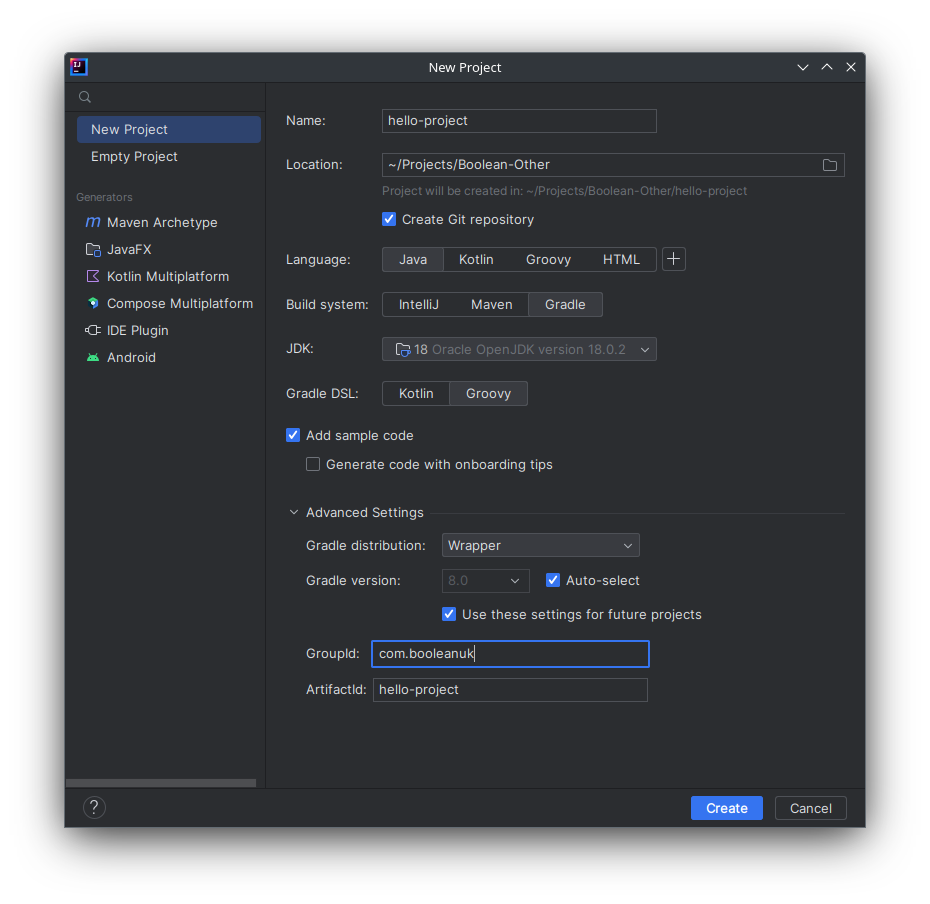
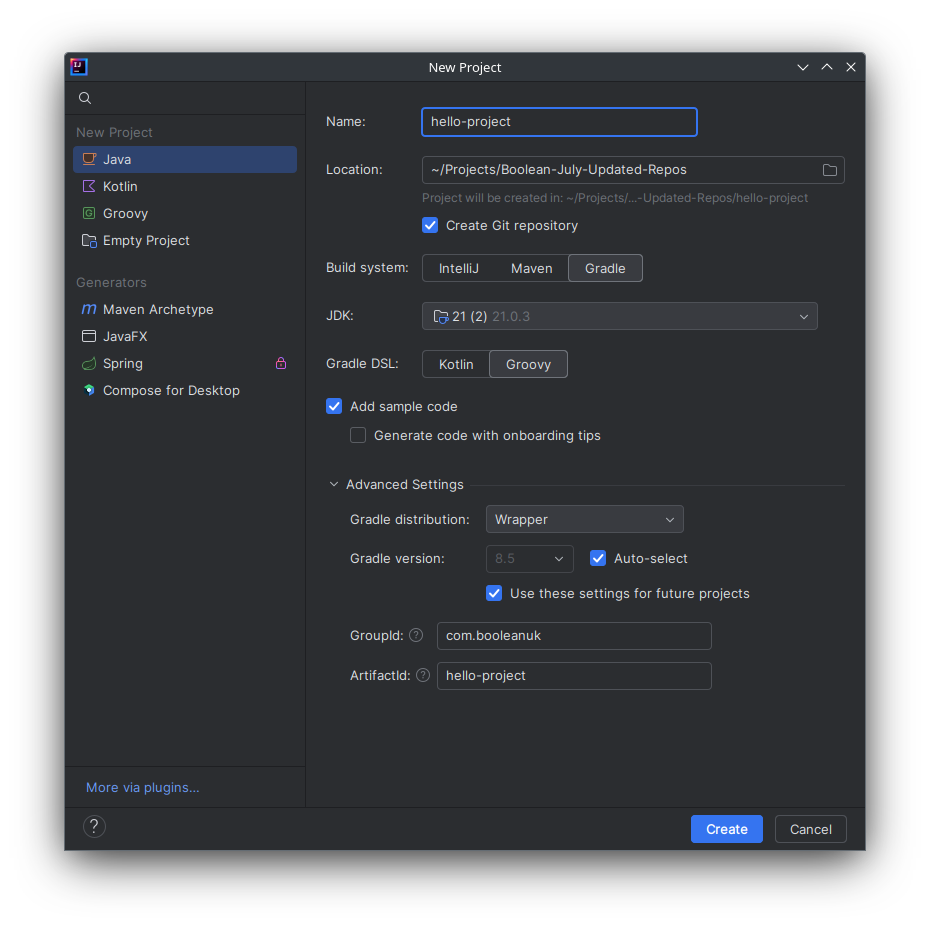
Updated the content to use Java 21 from Microsoft, and removed references to the beginner lesson content.

diff --git a/README.md b/README.md
@@ -12,21 +12,21 @@
 
 ## Installation
 
-### Install Java 17 SDK
+### Install Java 21 SDK
 
-Go to [here](https://learn.microsoft.com/en-us/java/openjdk/download#openjdk-17) and download the appropriate version of the Java SDK for your machine (we are specifically targetting versiion 17 of the JDK). If you use other versions of the JDK you may encounter problems so it is recommended that you just use version 17 for your platform.
+Go to [here](https://learn.microsoft.com/en-us/java/openjdk/download#openjdk-21) and download the appropriate version of the Java SDK for your machine (we are specifically targeting version 21 of the JDK). If you use other versions of the JDK you may encounter problems so it is recommended that you just use version 21 for your platform.
 
 There are Platform specific installation instructions [here](https://learn.microsoft.com/en-us/java/openjdk/install).
 
 To test which version your system can see, start a new Git Bash/Terminal and run `java --version` the output should look something like this:
 
 ```bash
-openjdk 17.0.9 2023-10-17 LTS
-OpenJDK Runtime Environment Microsoft-8526870 (build 17.0.9-LTS)
-OpenJDK 64-Bit Server VM Microsoft-8526870 (build 17.0.9-LTS, mixed mode, sharing)
+openjdk 21.0.3 2024-04-16 LTS
+OpenJDK Runtime Environment Microsoft-9388422 (build 21.0.3+9-LTS)
+OpenJDK 64-Bit Server VM Microsoft-9388422 (build 21.0.3+9-LTS, mixed mode, sharing)
 ```
 
-The final numbers aren't important, as long as you're seeing `openjdk 17` at the beginning.
+The final numbers aren't important, as long as you're seeing `openjdk 21` at the beginning.
 
 In theory that's enough to begin developing java programs.
 
@@ -82,7 +82,7 @@ The Location shows the folder which your new project's folder will be created in
 
 Leave the `Create Git repository` option ticked, make sure the language is set to `Java`, and choose `Gradle` for the Build system.
 
-Where it says `JDK` clicking on the drop-down will show all of the Java installations that IntelliJ has detected on your machine, make sure this is set to the version of Java which you downloaded earlier (in this case 18.0.2 but your version number may be slightly different).
+Where it says `JDK` clicking on the drop-down will show all of the Java installations that IntelliJ has detected on your machine, make sure this is set to the version of Java which you downloaded earlier (in this case 21.0.3 but your version number may be slightly different).
 
 Choose `Groovy` for the `Gradle DSL` and choose to leave the `Add sample code` box ticked for now.
 
@@ -108,192 +108,12 @@ We can run the code we have as the class (more on this later) contains a special
 
 Run the file using one fo the methods discussed, and you should see a `Run` window open at the bottom of the screen which eventually (after Java finishes compiling the file) will have the output of the program running. Change the message to be output and rerun the code (the compilation should take less time) and then see the output (if you see the old message again you probably forgot to save the file).
 
-## Primitive Data Types
+### Deprecation Warning
 
-Unlike languages like JavaScript which use something called **Duck Typing** Java insists that you decide what data type a particular variable or object is when you declare it and makes sure that value or object that will be assigned to it matches this data type (Object-Oriented Programming offers a way to sort of circumvent this), whilst this can feel a little restrictive to begin with it does help avoid runtime bugs and other problems which can be tricky to find.
+Currently, when you run the code you will probably see something that looks like this:
 
-If we want to declare a variable called score that is going to hold an integer (whole number) then we can do the declaration on one line without assigning a value to it.
+![Execution Window with Deprecation Warning](assets/deprecation-warning.png)
 
-`int score;`
+This shows you various bits of information about the code you're running along with the output (in this case the line **Hello world!**) and then a message about Deprecated Gradle features being used. This does not affect the success or failure of the code you have written and can safely be ignored for now. When Gradle finally upgrades to version 9.0, IntelliJ will be updated and the default `build.gradle` file will be updated as well to remove this warning, we will look at `build.gradle` and various other aspects of this later in the course. 
 
-The line of code **must** end with a semicolon `;` which is what tells Java the code on that line is complete.
-
-Add the above line to our hello world program above and then add another line that says `System.out.println(score);` below it so that the code looks like this:
-
-```java
-package com.booleanuk;
-
-public class Main {
-    public static void main(String[] args) {
-        System.out.println("Hello world!");
-
-        int score;
-
-        System.out.println(score);
-    }
-}
-```
-
-If you try and run the code you will get an error message telling you that:
-
-`error: variable score might not have been initialized System.out.println(score);`
-
-this is Java **helping** you avoid bugs.
-
-You can assign a value to `score` either on the same line it is declared on so that it reads `int score = 1000;` or on a line after it has been declared so that it reads `score = 1000;`. Try both of these ways of initialising the `score` variable (do one run it, then do the other). We can also assign the value on the line where it is declared and then change it on another line to a different value before outputting it.
-
-`int` is one of the primitive data types that comes with Java out of the box. Primitive data types are common ones that we will use repeatedly (and that you have used in Javascript possibly without knowing it). The others are shown below:
-
-| Data Type | Examples                               | Purpose                                                                                      |
-|-----------|----------------------------------------|----------------------------------------------------------------------------------------------|
-| boolean   | `true`, `false`                        | Answer yes or no questions                                                                   |
-| byte      | `-128`, `0`, `20`, `127`               | Store whole numbers from -128 to 127                                                         |
-| short     | `-32768`, `0`, `20`, `32767`           | Store whole numbers from -32768 to 32767                                                     |
-| int       | `-2000000000`, `0`, `20`, `2000000000` | Store whole numbers from -2147483648 to 2147483647                                           |
-| long      | `-2L`, `0L`, `20L`, `2L`               | Store whole numbers from -9223372036854775808 to 9223372036854775808                         |
-| float     | `-5.91f`, `0.29f`, `2.19f`, `5.67f`    | Store fractional numbers from 3.4e−038 to 3.4e+038                                           |
-| double    | `-19.99d`, `0.29d`, `2.19d`, `5.67d`   | Store fractional numbers from 1.7e−308 to 1.7e+308. They have double the precision of floats |
-| char      | `'A', 'B', 'C'`                        | Store a single character (notice chars us a single quote mark)                               |
-
-We can declare and initialise (assign a value to) them in the same way we did with `score` above.
-
-Add a variable declaration for each to the code you already have and also a `System.out.println()` statement to show each one.
-
-The one variable type we don't have here is the String (a collection of text), in Java a String is a different type of variable called a **Reference Type** currently we don't need to worry about the difference, but be aware that each of the Primitive Types shown above also have a **Reference Type** version that we will also need to use in specific circumstances. For instance the **Reference Type** version of an `int` is an `Integer` and we may need to use that in certain circumstances. **Reference Types** tend to have names which begin with a capital letter and when we get on to defining our own classes we will essentially be defining our own **Reference Types**. Converting between the two types (Primitive and Reference Types) is called autoboxing or unboxing depending on which way the conversion goes and is something that the Java compiler does for you.
-
-Add a line to declare and initialise a new `String` variable called name, with your name assigned to it and then on a separate line add in the following code:
-
-```
-System.out.println("Hello " + name + " how are you?");
-```
-
-Note that where `char`s have a single quote mark around them `'`, `String`s have to have double quote marks around them `"`.
-
-Strings also have lots of useful methods we can call on them such as `name.length()` or `name.toUpperCase()` here are some useful reference guides:
-
-- [W3Schools](https://www.w3schools.com/java/java_ref_string.asp)
-- [Oracle Java Documentation](https://docs.oracle.com/en/java/javase/18/docs/api/java.base/java/lang/String.html#method-summary)
-
-## Classes and Members
-
-Everything in Java lives inside classes, we'll discuss defining our own objects later but for now if you think of a class as having state and behaviour, then we can think of the state as being the data that is stored inside instances of the class and behaviour as being the methods (functions) we will define as being part of the class (this will all become clearer later). At the moment we can create a class to use such as an `Album` as follows. Right-click on the folder that the `Main` class file is contained in (probably called `booleanuk`) and select `New` then `Java Class`. Give it the name Album and IntelliJ will create the stub of the class as follows.
-
-![New Class](assets/new-class.png)
-
-```java
-package com.booleanuk;
-
-public class Album {
-    
-}
-```
-
-The keyword public needs to go at the start of a class definition like this for reasons that we will go into at a later point. This code equates to us saying we want to define a public class called `Album` and then we are going to define any variables it contains between the curly brackets.
-
-The `package` line tells Java that this is part of the same package as the `Main` class and will become essential when we come to defining and running tests later.
-
-Let's add some variables and assign values to them as we go (we'll come back to other ways to initialise the values at a later point).
-
-```java
-package com.booleanuk;
-
-public class Album {
-    String title = "Dark Side of the Moon";
-    String artist = "Pink Floyd";
-    int year = 1973;
-    String genre = "Progressive Rock";
-    boolean bandStillPerforming = true; // I'm unclear if they are still performing or not.
-}
-```
-
-At the moment you can't run the code for this file as there is no entry point. To add one we need to add a `main()` method similar to the one we had previously. Inside that method we need to create a new instance of the Album class, and then we will be able to access the values stored in its variables.
-
-```java
-package com.booleanuk;
-
-public class Album {
-    String title = "Dark Side of the Moon";
-    String artist = "Pink Floyd";
-    int year = 1973;
-    String genre = "Progressive Rock";
-    boolean bandStillPerforming = true; // I'm unclear if they are still performing or not.
-
-    public static void main(String[] args) {
-        Album pinkFloydAlbum = new Album();
-        System.out.println("Title: " + pinkFloydAlbum.title);
-        System.out.println("Artist: " + pinkFloydAlbum.artist);
-        System.out.println("Year: " + pinkFloydAlbum.year);
-        System.out.println("Genre: " + pinkFloydAlbum.genre);
-        System.out.println("Still performing: " + pinkFloydAlbum.bandStillPerforming);
-    }
-}
-```
-
-`main()` declared in this special way (`public static void` and with an argument of `String[] args` tells Java that this is an entry point).
-
-Counter-intuitively you then instantiate an instance of the class inside itself, which will then give you access to it. You often don't need a `main()` method as you will be interacting with your classes from other classes. If you have a big program with lots of classes in it, then often you would make a `Main` class with a `main()` method that would be the starting point for everything else running in your project (ie the first class would be instantiated in there and run everything else).
-
-Right click in the code window for the `Album` class and select the run option to run it, if you've done everything correctly you should see the 5 lines of output show in the Run window.
-
-You can also create an instance of the `Album` class in the `Main` class and output some data there (at this point it is available without any problem because they are both in the `com.booleanuk` package). Go into `Main` and add the code at the bottom of the `main()` method:
-
-```java
-package com.booleanuk;
-
-public class Main {
-    public static void main(String[] args) {
-        System.out.println("Hello world!");
-
-        int score = 2000000000;
-
-        System.out.println(score);
-
-        Album anAlbum = new Album();
-        System.out.println(anAlbum.title + " by " + anAlbum.artist);
-    }
-}
-```
-
-This creates a new instance of the `Album` class and then outputs some of the information that it contains. Run the `Main` class `main()` method rather than the `Album` class one to see this in action.
-
-## Running Tests
-
-Many of the early tasks you will be doing will have tests predefined by us, that you will need to make pass in order to pass the Core criteria and then other tests that will test the Extension criteria. Let's add some tests to this project to show you how it will work. Go to the Project browser and make sure the `test` folder is expanded. Then right-click on the **Java** option below `test`
-
-![Choose Java](assets/find-test.png)
-
-and choose `New` then `Package`.
-
-![New package](assets/new-package.png)
-
-In the new window that opens give it the name `com.booleanuk` which will add the folder structure to match the main code part (this will let us test the `Album` class).
-
-Then add a new Java class to the `booleanuk` folder we just created called `AlbumTest` and paste the following code into the file that results (we aren't going into what this all means at this point, it is just here so that we can demonstrate using tests in your code):
-
-```java
-package com.booleanuk;
-
-import org.junit.jupiter.api.Assertions;
-import org.junit.jupiter.api.Test;
-
-public class AlbumTest {
-
-    @Test
-    public void nameIsDarkSide() {
-        Album theAlbum = new Album();
-        Assertions.assertEquals("Dark Side of the Moon", theAlbum.title);
-    }
-
-    @Test
-    public void artistIsPinkFloyd() {
-        Album theAlbum = new Album();
-        Assertions.assertEquals("Pink Floyd", theAlbum.artist);
-    }
-}
-```
-
-When you look in the test file you will see a double green triangle to run all of the tests and single green triangles to run each test individually. It is usually easier to run each test individually and fix your code to make that test pass then move onto the next test and repeat this. Once you have worked through all of the tests I would then run all of the tests collectively to make sure that fixing one test hasn't broken another one. Once all the tests are passing then your code is ready to be pushed to GitHub and you can open a Pull Request in the same way that you did before.
-
-Often there will be Core activities and Extension activities too, some of the time these will require solutions to be written into separate files, but as we go on, more and more of them will be testing the same files. When we get further into the course the expectation is that you the student will be creating the tests that exercise your code to test it.
-
-For Test Driven Development the standard workflow is often called **Red Green Refactor** here **Red** involves you as the Developer thinking about the code you want to write and writing a test (or quite often multiple tests) to test this functionality. When you run this test it will fail, so you then write code to make the test pass (the **Green** part of the process). You work through repeating this process until you have created a program to meet your requirements, **Refactoring** your code as you go to make it more readable, maintainable, efficient etc.
+For now do not worry when this message is displayed, you have not made a mistake!
